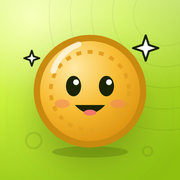
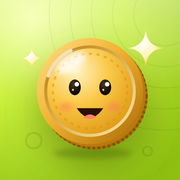
v12: mascote em 3D, fontes de antes, ícone 3D no app e no topo

diff --git a/index.html b/index.html
@@ -519,7 +519,6 @@ body{background:
 .mascot{pointer-events:auto;cursor:pointer;overflow:visible;z-index:1;-webkit-tap-highlight-color:transparent}
 .mascot *{transform-box:fill-box;transform-origin:center}
 .mascot .m-body{transform-origin:50% 100%}
-.m-bill .m-spin{transform-origin:50% 0}
 .m-say{position:absolute;z-index:2;right:12px;top:12px;max-width:min(200px,56%);background:var(--surface);color:var(--ink);
   border-radius:16px;padding:8px 12px;font-size:12.5px;font-weight:700;line-height:1.3;box-shadow:0 14px 30px -12px rgba(20,10,40,.45),0 0 0 1px var(--hair);
   pointer-events:none;opacity:0;transform:translateY(8px) scale(.85);transform-origin:70% 100%;transition:opacity .25s,transform .35s var(--ease)}
@@ -538,10 +537,12 @@ body{background:
   .mascot .m-body{animation:mBob 3.2s ease-in-out infinite}
   .mascot .m-eyes{animation:mBlink 4.8s infinite}
   .mascot .m-look{animation:mLook 7s ease-in-out infinite}
-  .m-coin .m-spin{animation:mSpin 10s ease-in-out 2s infinite}
-  .m-bill .m-spin{animation:mFlutter 2.6s ease-in-out infinite}
+  .m-coin .m-obj{animation:mSway3 9s ease-in-out 1s infinite}
+  .m-bill .m-obj{animation:mPaper3 4.5s ease-in-out infinite}
+  .mascot.poke .m-obj{animation:mFlip3 .75s cubic-bezier(.3,.1,.2,1)}
+  .mood-festa .m-sh{animation:mShadow 1s cubic-bezier(.3,0,.3,1) infinite}
+  .mascot.poke .m-sh{animation:mShadow .6s var(--ease)}
   .mood-festa .m-body{animation:mHop 1s cubic-bezier(.3,0,.3,1) infinite}
-  .mood-festa .m-shadow{animation:mShadow 1s cubic-bezier(.3,0,.3,1) infinite}
   .mood-feliz .m-body{animation:mBob 2.4s ease-in-out infinite}
   .mood-preocupado .m-body{animation:mFret 2s ease-in-out infinite}
   .mood-desesperado .m-body{animation:mShake .32s linear infinite}
@@ -563,22 +564,60 @@ body{background:
 @keyframes mBob{50%{transform:translateY(-6px) rotate(-3deg)}}
 @keyframes mFret{0%,100%{transform:rotate(0)}25%{transform:rotate(-4deg) translateY(-2px)}75%{transform:rotate(4deg) translateY(-2px)}}
 @keyframes mHop{0%,100%{transform:translateY(0) scale(1.05,.95)}40%{transform:translateY(-14px) scale(.97,1.03) rotate(-6deg)}70%{transform:translateY(-4px) rotate(4deg)}}
-@keyframes mShadow{40%{transform:scale(.7);opacity:.6}}
+@keyframes mShadow{40%{transform:scale(.7);opacity:.55}}
 @keyframes mShake{25%{transform:translate(-1.6px,0) rotate(-2deg)}75%{transform:translate(1.6px,0) rotate(2deg)}}
 @keyframes mGasp{50%{transform:scale(1.15,1.25)}}
 @keyframes mBlink{0%,93%,100%{transform:scaleY(1)}96%{transform:scaleY(.1)}}
 @keyframes mLook{0%,30%,100%{transform:translate(0,0)}38%,52%{transform:translate(-3px,-2px)}60%,75%{transform:translate(2.5px,0)}}
-@keyframes mSpin{0%,84%,100%{transform:scaleX(1)}88%{transform:scaleX(.06)}92%{transform:scaleX(-1)}96%{transform:scaleX(.06)}}
+@keyframes mSway3{0%,100%{transform:rotateY(-22deg) rotateX(4deg)}18%{transform:rotateY(22deg) rotateX(-2deg)}36%{transform:rotateY(-22deg) rotateX(4deg)}54%{transform:rotateY(18deg)}70%{transform:rotateY(-22deg) rotateX(4deg)}88%{transform:rotateY(338deg) rotateX(4deg)}}
+@keyframes mPaper3{0%,100%{transform:rotateY(-24deg) rotateX(6deg) rotateZ(-2deg)}50%{transform:rotateY(20deg) rotateX(-4deg) rotateZ(2deg)}}
+@keyframes mFlip3{from{transform:rotateY(0)}to{transform:rotateY(360deg)}}
+@keyframes mSpinOld{0%,84%,100%{transform:scaleX(1)}88%{transform:scaleX(.06)}92%{transform:scaleX(-1)}96%{transform:scaleX(.06)}}
 @keyframes mFlutter{50%{transform:skewX(-3deg) rotate(1.5deg)}}
 @keyframes mDrip{0%{transform:translateY(-4px) scale(.6);opacity:0}15%{opacity:1;transform:translateY(0) scale(1)}80%{opacity:1}100%{transform:translateY(18px);opacity:0}}
 @keyframes mTwinkle{0%,100%{transform:scale(.3) rotate(0);opacity:0}50%{transform:scale(1) rotate(90deg);opacity:1}}
-@keyframes mPoke{30%{transform:translateY(-18px) scale(1.08) rotate(10deg)}60%{transform:translateY(0) scale(1.06,.92)}80%{transform:scale(.97,1.03)}}
+@keyframes mPoke{30%{transform:translateY(-12px) scale(1.06) rotate(6deg)}60%{transform:translateY(0) scale(1.06,.92)}80%{transform:scale(.97,1.03)}}
 @keyframes flUp{0%{transform:translateY(0) rotate(0);opacity:0}15%,80%{opacity:.16}100%{transform:translateY(-280px) rotate(var(--r));opacity:0}}
 @keyframes ringPulse{50%{transform:scale(1.14)}}
 @keyframes shine{0%{left:-60%}25%,100%{left:130%}}
 @keyframes numPop{40%{transform:scale(1.07)}}
 @keyframes numWig{20%{transform:rotate(-3deg)}50%{transform:rotate(2.5deg) scale(1.04)}80%{transform:rotate(-1deg)}}
 @media (min-width:1024px){.m-say{font-size:13.5px}}
+
+/* ---------- v12: 3D mascot ---------- */
+.mascot.m3{filter:none}
+.m3 .m-body{position:absolute;inset:0;perspective:520px}
+.m3 .m-tilt{position:absolute;inset:0;transform-style:preserve-3d;transform:rotateX(var(--rx,0deg)) rotateY(var(--ry,0deg));transition:transform .35s ease-out}
+.m3 .m-obj{position:absolute;transform-style:preserve-3d}
+.m-coin{--t:4.6px}.m-bill{--t:1px}
+.m-coin .m-obj{left:15%;top:16%;width:70%;height:70%}
+.m-bill .m-obj{left:23.5%;top:12%;width:53.3%;height:71.6%}
+.m3 .m-face{position:absolute;inset:0;width:100%;height:100%;overflow:visible;-webkit-backface-visibility:hidden;backface-visibility:hidden}
+.m3 .m-face.front{transform:translateZ(var(--t))}
+.m3 .m-face.back{transform:rotateY(180deg) translateZ(var(--t))}
+.m3 .m-edge{position:absolute;inset:.6%;border-radius:50%;background:repeating-conic-gradient(#C98C14 0 5deg,#9E6604 5deg 10deg);transform:translateZ(var(--z))}
+.m3 .m-edge.b{inset:0 0 7% 0;border-radius:2px;background:#CFC8DC}
+.m3 .m-fx{position:absolute;inset:0;width:100%;height:100%;overflow:visible;pointer-events:none}
+.m3 .m-sh{position:absolute;left:22%;right:20%;bottom:0;height:9%;border-radius:50%;background:radial-gradient(closest-side,rgba(0,0,0,.32),transparent)}
+
+/* ---------- v12: original typography back ---------- */
+body{-webkit-font-smoothing:auto;letter-spacing:normal}
+.brand{font-size:22px}
+.hero .lbl{font-weight:500;opacity:.75;letter-spacing:normal}
+.hero .big{font-size:clamp(40px,11vw,58px);letter-spacing:-.035em}
+.sec-h h2{font-size:24px;letter-spacing:-.02em}
+.sec-h .count{font-weight:400}
+.row .amt{font-size:17px;letter-spacing:-.01em}
+.pill{font-weight:600}
+.fab{font-size:15px;font-weight:600}
+.icon-btn{font-weight:500}
+.nav button{font-size:11px}
+.sheet-h h3{font-size:22px;letter-spacing:-.02em}
+.owe .v{letter-spacing:-.03em}
+.m-say{font-weight:600}
+.brand-mark.img{background:none;box-shadow:0 6px 14px -6px rgba(60,90,0,.6)}
+.brand-mark.img img{width:100%;height:100%;display:block}
+@media (min-width:1024px){ .hero .big{font-size:clamp(48px,4.2vw,64px)} }
 
 /* columns: invisible on phones, two columns on wide screens */
 .cols,.side,.main{display:contents}
@@ -766,49 +805,89 @@ function humor(total, atrasados){
   if(atrasados) i = Math.min(3, i + (atrasados>=3 ? 2 : 1));
   return HUMORES[i];
 }
+// v12: 3D mascot — shaded faces on a real CSS 3D object (coin with a reeded edge, bill with a back side)
 function rosto(mood, ex1, ex2, ey, my, ink){
-  const mx = (ex1+ex2)/2, aflito = mood==='desesperado', r = aflito ? 7 : 6;
+  const mx = (ex1+ex2)/2, aflito = mood==='desesperado', r = aflito ? 5.4 : 4.7, ry = r*1.32;
+  const olho = x => `<ellipse cx="${x}" cy="${ey}" rx="${r}" ry="${ry}" fill="url(#m-eye)"/>
+      <ellipse cx="${x}" cy="${ey+ry*.55}" rx="${r*.62}" ry="${ry*.28}" fill="#fff" opacity=".13"/>`;
+  const brilho = x => `<circle cx="${x+1.6}" cy="${ey-2.4}" r="${aflito?1.25:1.8}" fill="#fff"/><circle cx="${x-1.5}" cy="${ey+2}" r=".8" fill="#fff" opacity=".8"/>`;
   const olhos = mood==='festa'
-    ? `<path d="M${ex1-6} ${ey+2} q6 -9 12 0M${ex2-6} ${ey+2} q6 -9 12 0" fill="none" stroke="${ink}" stroke-width="3.6" stroke-linecap="round"/>`
-    : `<g class="m-eyes"><ellipse cx="${ex1}" cy="${ey}" rx="${r}" ry="${r*1.35}" fill="${ink}"/><ellipse cx="${ex2}" cy="${ey}" rx="${r}" ry="${r*1.35}" fill="${ink}"/>
-       <g class="m-look"><circle cx="${ex1+2}" cy="${ey-3}" r="${aflito?1.6:2.3}" fill="#fff"/><circle cx="${ex2+2}" cy="${ey-3}" r="${aflito?1.6:2.3}" fill="#fff"/></g></g>`;
-  const dy = aflito ? 7 : 4;
+    ? `<path d="M${ex1-5} ${ey+1.5} q5 -7.5 10 0M${ex2-5} ${ey+1.5} q5 -7.5 10 0" fill="none" stroke="${ink}" stroke-width="2.9" stroke-linecap="round"/>`
+    : `<g class="m-eyes">${olho(ex1)}${olho(ex2)}<g class="m-look">${brilho(ex1)}${brilho(ex2)}</g></g>`;
+  const dy = aflito ? 5.5 : 3.2;
   const sobr = (mood==='preocupado'||aflito)
-    ? `<path d="M${ex1-8} ${ey-11} L${ex1+6} ${ey-11-dy}M${ex2-6} ${ey-11-dy} L${ex2+8} ${ey-11}" stroke="${ink}" stroke-width="3.2" stroke-linecap="round"/>` : '';
+    ? `<path d="M${ex1-6} ${ey-8.5} L${ex1+5} ${ey-8.5-dy}M${ex2-5} ${ey-8.5-dy} L${ex2+6} ${ey-8.5}" stroke="${ink}" stroke-width="2.6" stroke-linecap="round"/>` : '';
   const boca = {
-    festa: `<path d="M${mx-13} ${my-3} q13 18 26 0z" fill="${ink}"/><ellipse cx="${mx}" cy="${my+3}" rx="5" ry="2.4" fill="#F27A6B"/>`,
-    feliz: `<path d="M${mx-11} ${my-2} q11 11 22 0" fill="none" stroke="${ink}" stroke-width="3.5" stroke-linecap="round"/>`,
-    ok: `<path d="M${mx-9} ${my} q9 4 18 0" fill="none" stroke="${ink}" stroke-width="3.5" stroke-linecap="round"/>`,
-    preocupado: `<path d="M${mx-11} ${my+2} q5.5 -5 11 0 q5.5 5 11 0" fill="none" stroke="${ink}" stroke-width="3.2" stroke-linecap="round"/>`,
-    desesperado: `<ellipse class="m-gasp" cx="${mx}" cy="${my+2}" rx="5.5" ry="7" fill="${ink}"/>`,
+    festa: `<path d="M${mx-10.5} ${my-2.5} q10.5 15 21 0z" fill="url(#m-mouth)"/><path d="M${mx-5} ${my+4.6} q5 -4.4 10 0 q-5 2.6 -10 0z" fill="#FF7E73"/>`,
+    feliz: `<path d="M${mx-8.5} ${my-1.5} q8.5 9 17 0" fill="none" stroke="${ink}" stroke-width="2.8" stroke-linecap="round"/>`,
+    ok: `<path d="M${mx-7} ${my} q7 3.4 14 0" fill="none" stroke="${ink}" stroke-width="2.8" stroke-linecap="round"/>`,
+    preocupado: `<path d="M${mx-8.5} ${my+1.5} q4.25 -4 8.5 0 q4.25 4 8.5 0" fill="none" stroke="${ink}" stroke-width="2.6" stroke-linecap="round"/>`,
+    desesperado: `<ellipse class="m-gasp" cx="${mx}" cy="${my+1.5}" rx="4.4" ry="5.6" fill="url(#m-mouth)"/>`,
   }[mood];
-  const boche = (mood==='festa'||mood==='feliz') ? `<ellipse cx="${ex1-9}" cy="${my-4}" rx="6" ry="3.5" fill="#F08A5D" opacity=".55"/><ellipse cx="${ex2+9}" cy="${my-4}" rx="6" ry="3.5" fill="#F08A5D" opacity=".55"/>` : '';
+  const boche = (mood==='festa'||mood==='feliz'||mood==='ok')
+    ? `<g filter="url(#m-blur)" opacity="${mood==='ok'?.35:.6}"><ellipse cx="${ex1-7}" cy="${my-3.5}" rx="5" ry="3" fill="#FF7A59"/><ellipse cx="${ex2+7}" cy="${my-3.5}" rx="5" ry="3" fill="#FF7A59"/></g>` : '';
   return boche + sobr + olhos + boca;
 }
-const estrela = (x, y, s, cls) => `<path class="m-spark ${cls}" d="M${x} ${y-s}L${x+s*.28} ${y-s*.28}L${x+s} ${y}L${x+s*.28} ${y+s*.28}L${x} ${y+s}L${x-s*.28} ${y+s*.28}L${x-s} ${y}L${x-s*.28} ${y-s*.28}Z" fill="#fff" stroke="#1B2400" stroke-width="1.4" stroke-linejoin="round"/>`;
-const gota = (x, y, cls='') => `<path class="m-sweat ${cls}" d="M${x} ${y} q6 10 0 14 q-6 -4 0 -14z" fill="#7CC7F2" stroke="#2C7FB0" stroke-width="1"/>`;
+const MDEFS = `<filter id="m-blur" x="-50%" y="-50%" width="200%" height="200%"><feGaussianBlur stdDeviation="1.4"/></filter>
+  <filter id="m-soft" x="-50%" y="-50%" width="200%" height="200%"><feGaussianBlur stdDeviation="2.6"/></filter>
+  <radialGradient id="m-eye" cx="40%" cy="30%" r="80%"><stop offset="0" stop-color="#4A3A1C"/><stop offset=".6" stop-color="#1A1206"/><stop offset="1" stop-color="#000"/></radialGradient>
+  <linearGradient id="m-mouth" x1="0" y1="0" x2="0" y2="1"><stop offset="0" stop-color="#3A1A08"/><stop offset="1" stop-color="#140600"/></linearGradient>`;
+const estrela = (x, y, s, cls) => `<path class="m-spark ${cls}" d="M${x} ${y-s}Q${x+s*.18} ${y-s*.18} ${x+s} ${y}Q${x+s*.18} ${y+s*.18} ${x} ${y+s}Q${x-s*.18} ${y+s*.18} ${x-s} ${y}Q${x-s*.18} ${y-s*.18} ${x} ${y-s}Z" fill="url(#m-star)"/>`;
+const gota = (x, y, cls='') => `<g class="m-sweat ${cls}"><path d="M${x} ${y} q6.5 10 0 14.5 q-6.5 -4.5 0 -14.5z" fill="url(#m-drop)"/><ellipse cx="${x-1.6}" cy="${y+9}" rx="1.3" ry="2.2" fill="#fff" opacity=".85"/></g>`;
 function extrasHumor(mood){
-  if(mood==='festa') return estrela(16,30,7,'s1') + estrela(104,22,6,'s2') + estrela(108,70,5,'s3');
-  if(mood==='feliz') return estrela(104,24,6,'s1');
-  if(mood==='preocupado') return gota(98,26);
-  if(mood==='desesperado') return gota(98,24) + gota(20,34,'d2');
+  if(mood==='festa') return estrela(14,28,8,'s1') + estrela(106,20,7,'s2') + estrela(110,70,5.5,'s3');
+  if(mood==='feliz') return estrela(106,22,7,'s1');
+  if(mood==='preocupado') return gota(100,24);
+  if(mood==='desesperado') return gota(100,22) + gota(18,32,'d2');
   return '';
 }
-function mascote(pg, mood){
-  const corpo = pg
-    ? `<path d="M28 18h64v86l-8-6-8 6-8-6-8 6-8-6-8 6-8-6-8 6z" fill="#FFFFFF" stroke="#2A1A12" stroke-width="3.5" stroke-linejoin="round"/>
-       <path d="M38 28h44M38 36h30" stroke="#2A1A12" stroke-width="3.5" stroke-linecap="round"/>
-       <path d="M38 89h4M45 89h2M50 89h5M58 89h2M63 89h6M72 89h3M78 89h4" stroke="#2A1A12" stroke-width="6"/>
-       ${rosto(mood, 49, 71, 62, 75, '#2A1A12')}`
-    : `<circle cx="60" cy="62" r="42" fill="url(#mcg)"/><circle cx="60" cy="62" r="42" fill="none" stroke="#C98A10" stroke-width="5"/>
-       <circle cx="60" cy="62" r="31" fill="none" stroke="#E3A11F" stroke-width="3" stroke-dasharray="4 5"/>
-       <path d="M31 46a33 33 0 0 1 20-21" fill="none" stroke="#fff" stroke-width="4.5" stroke-linecap="round" opacity=".6"/>
-       ${rosto(mood, 47, 73, 58, 76, '#1B2400')}`;
-  return `<svg class="mascot ${pg?'m-bill':'m-coin'} mood-${mood}" viewBox="0 0 120 120" role="img" aria-label="Mascote ${mood}">
-    <defs><radialGradient id="mcg" cx="35%" cy="30%" r="80%"><stop offset="0" stop-color="#FFE38F"/><stop offset=".55" stop-color="#F5B82E"/><stop offset="1" stop-color="#DE9410"/></radialGradient></defs>
-    <ellipse class="m-shadow" cx="61" cy="112" rx="32" ry="5" fill="rgba(0,0,0,.16)"/>
-    <g class="m-body"><g class="m-spin">${corpo}</g>${extrasHumor(mood)}</g>
+const FXDEFS = `<defs><radialGradient id="m-star" cx="40%" cy="35%" r="70%"><stop offset="0" stop-color="#FFFFFF"/><stop offset=".55" stop-color="#FFF4B8"/><stop offset="1" stop-color="#FFC93C"/></radialGradient>
+  <linearGradient id="m-drop" x1="0" y1="0" x2="1" y2="1"><stop offset="0" stop-color="#C9EEFF"/><stop offset=".5" stop-color="#6CC4F5"/><stop offset="1" stop-color="#2D86C9"/></linearGradient></defs>`;
+function moedaFrente(mood){
+  return `<svg class="m-face front" viewBox="0 0 84 84" aria-hidden="true"><defs>${MDEFS}
+    <linearGradient id="m-rim" x1="0" y1="0" x2="1" y2="1"><stop offset="0" stop-color="#FFE28A"/><stop offset=".45" stop-color="#F2B230"/><stop offset="1" stop-color="#A86A06"/></linearGradient>
+    <linearGradient id="m-bev" x1="0" y1="0" x2="1" y2="1"><stop offset="0" stop-color="#B87808"/><stop offset="1" stop-color="#FFE9A6"/></linearGradient>
+    <radialGradient id="m-gold" cx="36%" cy="30%" r="78%"><stop offset="0" stop-color="#FFF2C2"/><stop offset=".45" stop-color="#FAC948"/><stop offset="1" stop-color="#DE9612"/></radialGradient></defs>
+    <circle cx="42" cy="42" r="42" fill="url(#m-rim)"/>
+    <circle cx="42" cy="42" r="35" fill="url(#m-gold)"/>
+    <circle cx="42" cy="42" r="35" fill="none" stroke="url(#m-bev)" stroke-width="2.4"/>
+    <circle cx="42" cy="42" r="29.5" fill="none" stroke="#D9960F" stroke-width="1.6" stroke-dasharray="2.5 3.5" opacity=".55"/>
+    <ellipse cx="27" cy="20" rx="13" ry="6.5" transform="rotate(-32 27 20)" fill="#fff" opacity=".75" filter="url(#m-soft)"/>
+    <path d="M9 30a35 35 0 0 1 18-20" fill="none" stroke="#fff" stroke-width="2.6" stroke-linecap="round" opacity=".7"/>
+    ${rosto(mood, 30, 54, 39, 56, '#1A1206')}
   </svg>`;
+}
+const moedaVerso = `<svg class="m-face back" viewBox="0 0 84 84" aria-hidden="true"><defs>
+    <linearGradient id="m-rimb" x1="1" y1="0" x2="0" y2="1"><stop offset="0" stop-color="#FFE28A"/><stop offset=".45" stop-color="#F2B230"/><stop offset="1" stop-color="#A86A06"/></linearGradient>
+    <radialGradient id="m-goldb" cx="64%" cy="30%" r="78%"><stop offset="0" stop-color="#FFEFB8"/><stop offset=".5" stop-color="#F5BE3A"/><stop offset="1" stop-color="#D08A0C"/></radialGradient></defs>
+    <circle cx="42" cy="42" r="42" fill="url(#m-rimb)"/><circle cx="42" cy="42" r="35" fill="url(#m-goldb)"/>
+    <text x="42" y="52" text-anchor="middle" font-family="Bricolage Grotesque, Inter, sans-serif" font-weight="800" font-size="30" fill="#B97A08" stroke="#FFE7A0" stroke-width=".8">R$</text>
+  </svg>`;
+const BILL = 'M0 0h64v86l-8-6-8 6-8-6-8 6-8-6-8 6-8-6-8 6z';
+function boletoFrente(mood){
+  return `<svg class="m-face front" viewBox="0 0 64 86" aria-hidden="true"><defs>${MDEFS}
+    <linearGradient id="m-paper" x1="0" y1="0" x2="1" y2="1"><stop offset="0" stop-color="#FFFFFF"/><stop offset=".6" stop-color="#F6F4FA"/><stop offset="1" stop-color="#DCD7E6"/></linearGradient>
+    <linearGradient id="m-curl" x1="0" y1="0" x2="1" y2="0"><stop offset="0" stop-color="#000" stop-opacity=".1"/><stop offset=".18" stop-color="#000" stop-opacity="0"/><stop offset=".8" stop-color="#000" stop-opacity="0"/><stop offset="1" stop-color="#000" stop-opacity=".12"/></linearGradient>
+    <linearGradient id="m-ear" x1="0" y1="1" x2="1" y2="0"><stop offset="0" stop-color="#FFFFFF"/><stop offset="1" stop-color="#C9C2D8"/></linearGradient></defs>
+    <path d="${BILL}" fill="url(#m-paper)"/>
+    <path d="${BILL}" fill="url(#m-curl)"/>
+    <path d="M52 0h12v12z" fill="rgba(60,40,90,.18)"/><path d="M52 0v12h12z" fill="url(#m-ear)"/>
+    <path d="M8 9h34M8 16h24" stroke="#3A2A22" stroke-width="3" stroke-linecap="round" opacity=".85"/>
+    <path d="M10 71h3M15 71h1.5M19 71h4M25 71h1.5M29 71h5M36 71h2M40 71h3.5M46 71h1.5M50 71h3" stroke="#3A2A22" stroke-width="5"/>
+    ${rosto(mood, 21, 43, 41, 56, '#2A1A12')}
+  </svg>`;
+}
+const boletoVerso = `<svg class="m-face back" viewBox="0 0 64 86" aria-hidden="true"><defs><linearGradient id="m-paperb" x1="1" y1="0" x2="0" y2="1"><stop offset="0" stop-color="#FFFFFF"/><stop offset="1" stop-color="#D9D3E4"/></linearGradient></defs>
+    <path d="${BILL}" fill="url(#m-paperb)"/><path d="M10 14h44M10 22h44M10 30h30M10 44h44M10 52h36" stroke="#CFC8DC" stroke-width="2.2" stroke-linecap="round"/></svg>`;
+function mascote(pg, mood){
+  const obj = pg
+    ? `<i class="m-edge b" style="--z:0px"></i>${boletoFrente(mood)}${boletoVerso}`
+    : Array.from({length:9}, (_, i)=>`<i class="m-edge" style="--z:${i-4}px"></i>`).join('') + moedaFrente(mood) + moedaVerso;
+  return `<div class="mascot m3 ${pg?'m-bill':'m-coin'} mood-${mood}" role="img" aria-label="Mascote ${mood}">
+    <div class="m-sh"></div>
+    <div class="m-body"><div class="m-tilt"><div class="m-obj">${obj}</div></div>
+      <svg class="m-fx" viewBox="0 0 120 120" aria-hidden="true">${FXDEFS}${extrasHumor(mood)}</svg></div>
+  </div>`;
 }
 const FALAS = {
   receber:{ festa:['Ninguém te deve nada! 🎉','Tudo pago. Que paz!'], feliz:['Tá tranquilo, pouca coisa na rua.','Isso aí, quase tudo voltou!'],
@@ -844,11 +923,18 @@ function contarValor(total){
   put(ini); contarValor.raf = requestAnimationFrame(step);
 }
 function ligarMascote(mood, total){
-  const m = document.querySelector('#hero .mascot'); if(!m) return;
+  const m = document.querySelector('#hero .mascot'), hero = $('#hero'); if(!m) return;
+  const tilt = m.querySelector('.m-tilt');
+  if(tilt && hero){
+    hero.onpointermove = e => { const r = m.getBoundingClientRect(), cx = r.left+r.width/2, cy = r.top+r.height/2;
+      const ry = Math.max(-35, Math.min(35, (e.clientX-cx)/4)), rx = Math.max(-25, Math.min(25, -(e.clientY-cy)/5));
+      tilt.style.setProperty('--ry', ry+'deg'); tilt.style.setProperty('--rx', rx+'deg'); };
+    hero.onpointerleave = () => { tilt.style.removeProperty('--ry'); tilt.style.removeProperty('--rx'); };
+  }
   m.onclick = e => {
     e.stopPropagation();
     m.classList.remove('poke'); void m.getBoundingClientRect(); m.classList.add('poke');
-    clearTimeout(ligarMascote.t); ligarMascote.t = setTimeout(()=>m.classList.remove('poke'), 650);
+    clearTimeout(ligarMascote.t); ligarMascote.t = setTimeout(()=>m.classList.remove('poke'), 800);
     const big = document.querySelector('#hero .big'); if(big){ big.classList.remove('wig'); void big.offsetWidth; big.classList.add('wig'); }
     try{ navigator.vibrate?.(12); }catch(_){}
     falar(mood, total);
@@ -898,7 +984,7 @@ function applyLook(c){
 }
 matchMedia('(prefers-color-scheme: dark)').addEventListener?.('change', ()=>applyLook(cfgNow()));
 new MutationObserver(()=>applyLook(cfgNow())).observe(document.documentElement, {attributes:true, attributeFilter:['data-theme']});
-function brandMark(){ const ic = (cfgNow().icone||'').trim(); return `<span class="brand-mark">${ic ? esc(ic) : LOGO}</span>`; }
+function brandMark(){ const ic = (cfgNow().icone||'').trim(); return ic ? `<span class="brand-mark">${esc(ic)}</span>` : `<span class="brand-mark img"><img src="icons/icon-192.png" alt=""></span>`; }
 
 /* ---------- render ---------- */
 const lsGet = (k, d) => { try{ return localStorage.getItem(k) || d; }catch(e){ return d; } };
@@ -2497,7 +2583,7 @@ SHEETS.sync = {
   }
 };
 
-const APP_VERSION = '11';
+const APP_VERSION = '12';
 let swReg = null, recarregando = false;
 function mostrarUpdate(){ if(!ui.update){ ui.update = true; render(); } }
 function aplicarUpdate(){

diff --git a/sw.js b/sw.js
@@ -1,7 +1,7 @@
 // Fiado — offline cache.
 // To ship an update: change the app files, bump VERSION, push. Open apps then show "Atualizar app".
 // Your data lives in localStorage and is never touched by updates.
-const VERSION = 'fiado-v11';
+const VERSION = 'fiado-v12';
 const SHELL = [
   './',
   './index.html',
